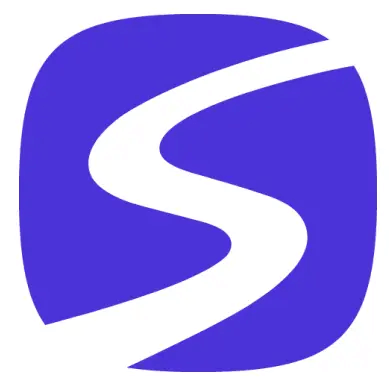
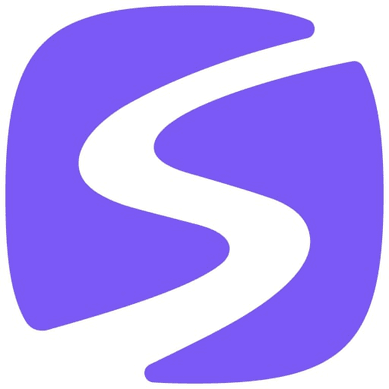
Add-vitest (#22)
* feat: add vitest and update packages

* chore: update serenis logo

* docs: update changelog

* docs: update changelog

diff --git a/CHANGELOG.md b/CHANGELOG.md
@@ -7,15 +7,33 @@ and this project adheres to [Semantic Versioning](https://semver.org/spec/v2.0.0
 
 Generated by [`auto-changelog`](https://github.com/CookPete/auto-changelog).
 
-## [0.0.3](https://github.com/serenis-health/vscode-essentials/compare/0.0.2...0.0.3) - 2023-02-15
+## [v1.1.0](https://github.com/serenis-health/vscode-essentials/compare/v0.0.4...v1.1.0)
 
 ### Merged
 
-- #7: Add node_modules to gitignore [`#8`](https://github.com/serenis-health/vscode-essentials/pull/8)
+- feat(PRD-6317): upgrade vscode-essentials [`#21`](https://github.com/serenis-health/vscode-essentials/pull/21)
+- feat(PRD-6317): upgrade vscode-essentials [`#20`](https://github.com/serenis-health/vscode-essentials/pull/20)
+- 0.0.4 [`#18`](https://github.com/serenis-health/vscode-essentials/pull/18)
+- feat(PRD-2063): add stylelint to vscode extension pack [`#17`](https://github.com/serenis-health/vscode-essentials/pull/17)
 
 ### Commits
 
-- feat(#10): add vscode-styled-components [`5d75d0c`](https://github.com/serenis-health/vscode-essentials/commit/5d75d0c9f20e7ccd722c8b3f344236c377400d7b)
+- feat: add vitest and update packages [`f12b8ed`](https://github.com/serenis-health/vscode-essentials/commit/f12b8ed3ca85f403217662f303fce881b247772e)
+- docs: update changelog [`dd99ae5`](https://github.com/serenis-health/vscode-essentials/commit/dd99ae5ed6d1f0d5450c612d9ffc9d47f13eb55f)
+- chore: update serenis logo [`7ac63a7`](https://github.com/serenis-health/vscode-essentials/commit/7ac63a7ed486a3527db5ab7fc09310b481ad75d3)
+
+## [v0.0.4](https://github.com/serenis-health/vscode-essentials/compare/0.0.3...v0.0.4) - 2024-01-05
+
+### Commits
+
+- feat(PRD-2063): add stylelint to vscode extension pack [`3fbb47b`](https://github.com/serenis-health/vscode-essentials/commit/3fbb47be7ce27a7fa7bdcaacf8dc1a2dc353039d)
+
+## [0.0.3](https://github.com/serenis-health/vscode-essentials/compare/0.0.2...0.0.3) - 2023-02-16
+
+### Merged
+
+- #10: Add vscode-styled-components [`#11`](https://github.com/serenis-health/vscode-essentials/pull/11)
+- #7: Add node_modules to gitignore [`#8`](https://github.com/serenis-health/vscode-essentials/pull/8)
 
 ## [0.0.2](https://github.com/serenis-health/vscode-essentials/compare/0.0.1...0.0.2) - 2023-02-10
 
@@ -30,7 +48,7 @@ Generated by [`auto-changelog`](https://github.com/CookPete/auto-changelog).
 - Merge pull request #1 from serenis-health/renovate/configure [`e85b03a`](https://github.com/serenis-health/vscode-essentials/commit/e85b03ade1f74a689b0fb150edb5f7236e57fdae)
 - Update package.json [`88ea11f`](https://github.com/serenis-health/vscode-essentials/commit/88ea11f0315ff4a121f0b52ba9d118e4620a5689)
 
-## [0.0.1](https://github.com/serenis-health/vscode-essentials/compare/b53f5c10a52fb6ab91e114b346f9a9d5d85059b1...0.0.1) - 2023-02-09
+## 0.0.1 - 2023-02-09
 
 ### Commits
 

diff --git a/README.md b/README.md
@@ -15,4 +15,5 @@ These are essentials extensions for Serenis engineers workspace
 - [Slugify](https://marketplace.visualstudio.com/items?itemName=neptunedesign.vs-slug) - Slugify a string
 - [Stylelint](https://marketplace.visualstudio.com/items?itemName=stylelint.vscode-stylelint) - Official Stylelint extension for Visual Studio Code
 - [TiltFile](https://marketplace.visualstudio.com/items?itemName=tilt-dev.tiltfile) - TiltFile syntax support
+- [vitest.explorer][https://marketplace.visualstudio.com/items?itemName=vitest.explorer] - Vitest extension for running, debugging and watch tests
 - [vscode-styled-components](https://marketplace.visualstudio.com/items?itemName=styled-components.vscode-styled-components) - Syntax highlighting for styled-components
